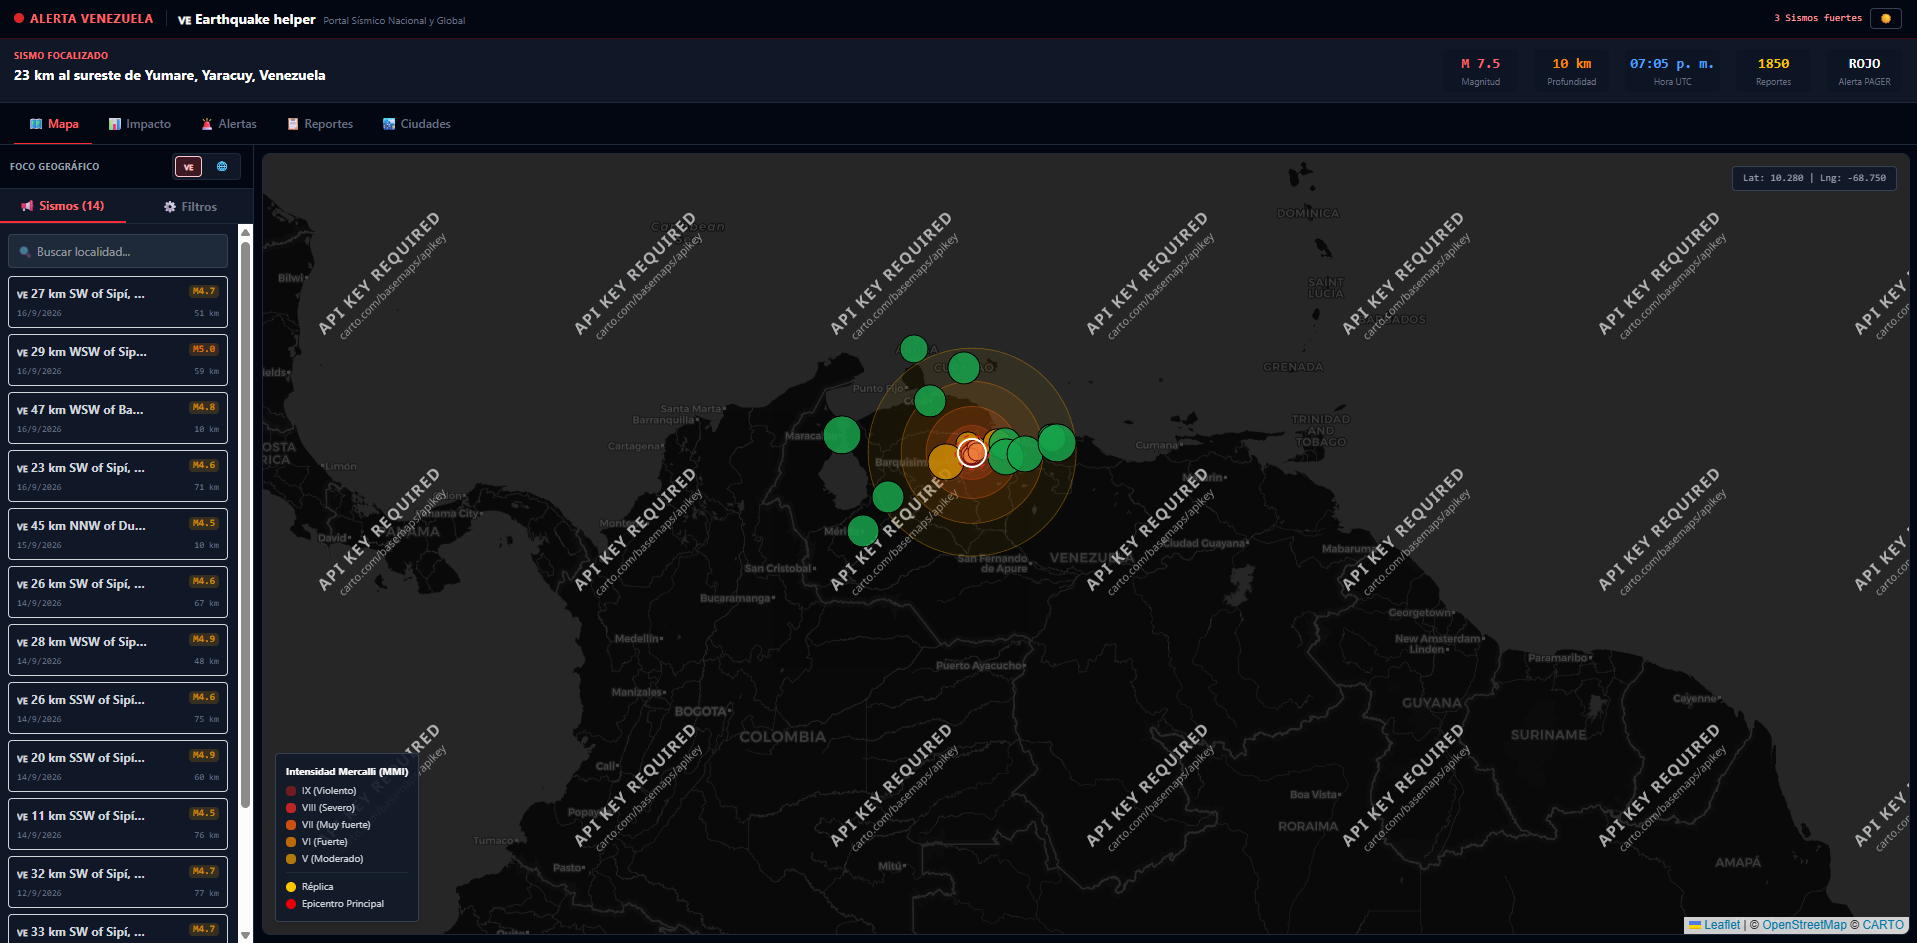
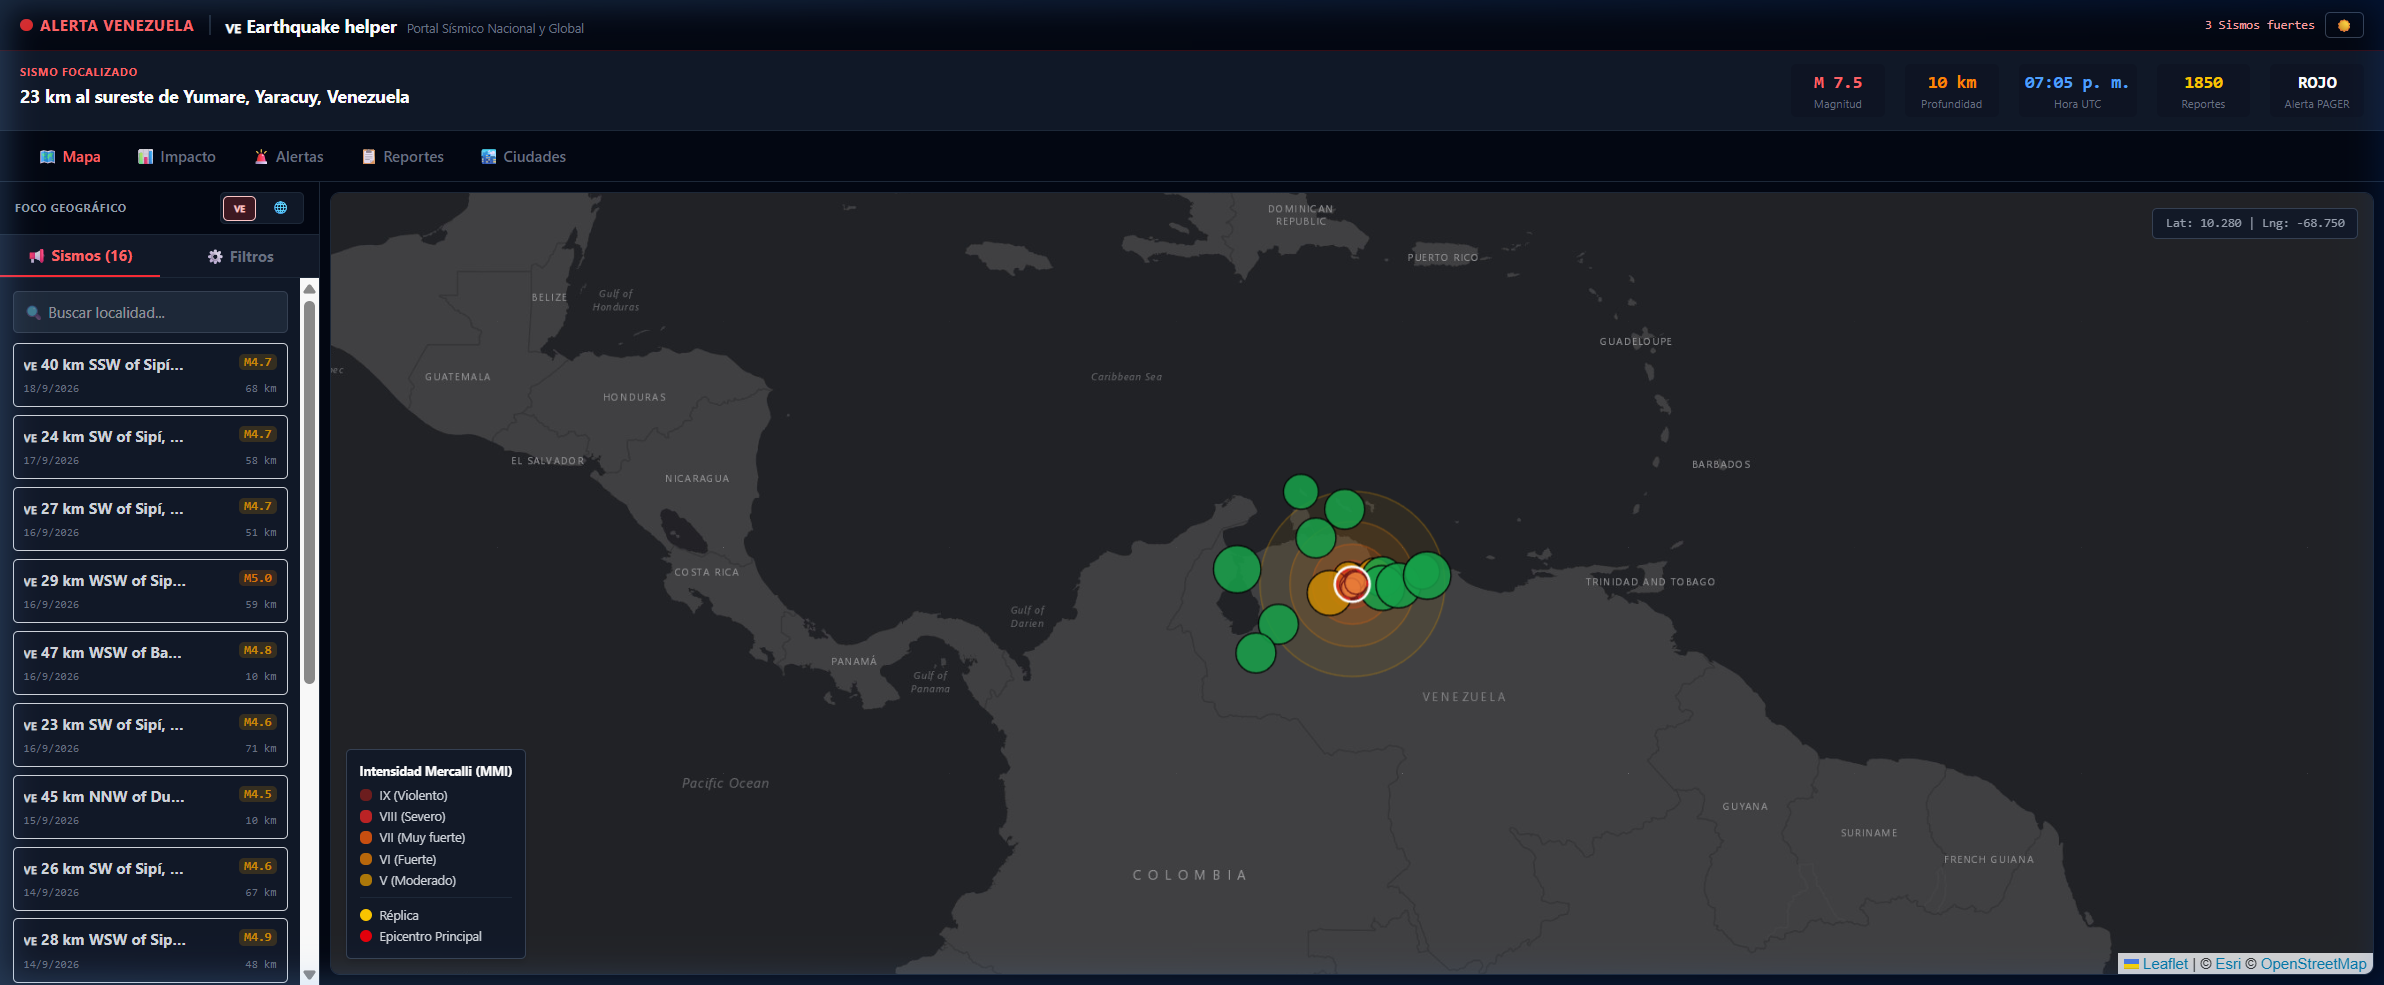
Update README

diff --git a/README.md b/README.md
@@ -45,7 +45,7 @@ Durante situaciones de emergencia sísmica, el acceso inmediato a datos veraces,
 <table align="center" width="100%">
   <tr>
     <td width="50%" align="center">
-      <img src="public/screenshots/Screenshot_1.png" alt="Vista General del Mapa Sísmico Interactivo" width="100%"/>
+      <img src="public/screenshots/Screenshot_1.png?v=3" alt="Vista General del Mapa Sísmico Interactivo" width="100%"/>
       <br/>
       <sub>Vista General del Mapa Sísmico Interactivo</sub>
     </td>
